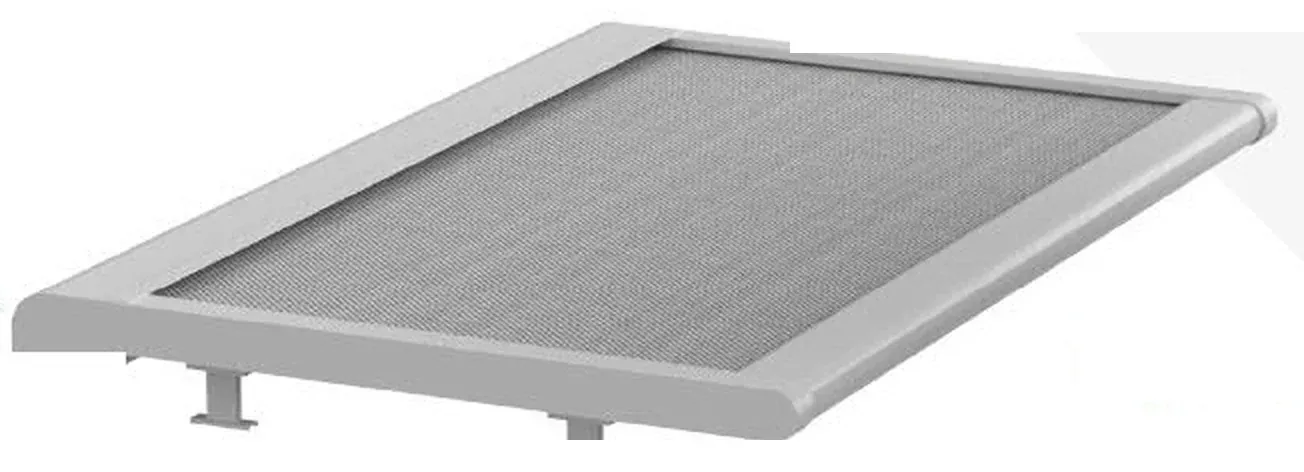
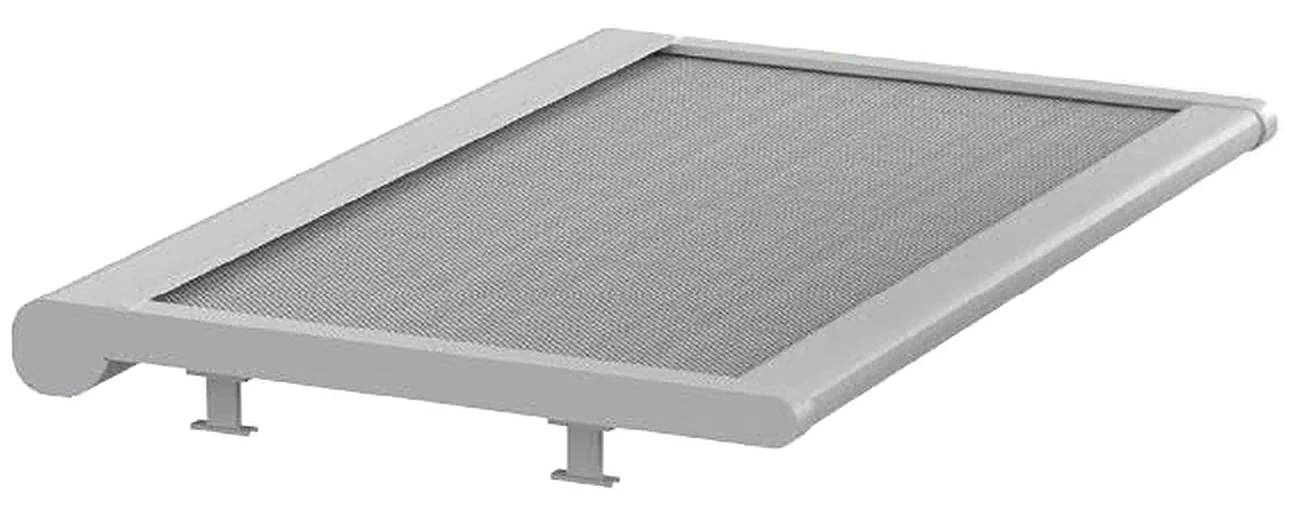
Clean glass-roof awning render; even rows in the products panel
- Rebuild the tenda-mbi-xham render from the catalogue original as a
  clean cut-out: both legs intact, no leftover background wedge
- Rows in the awnings and parasols panel share the panel height, so no
  empty band remains at the bottom on wide screens

Claude-Session: https://claude.ai/code/session_01UwXFtcP2WfhFfbmheNnJNL

diff --git a/css/styles.css b/css/styles.css
@@ -362,7 +362,7 @@ legend { padding: 0; }
 .card__more:hover { color: var(--black); }
 .card__more:hover .i { transform: rotate(90deg); }
 
-.more__list { display: grid; margin-top: 20px; border-top: 1px solid var(--line); }
+.more__list { flex: 1; display: grid; grid-auto-rows: 1fr; margin-top: 20px; border-top: 1px solid var(--line); }
 .more__list li { display: flex; align-items: center; justify-content: space-between; gap: 20px; padding: 16px 0; border-bottom: 1px solid var(--line); }
 .more__list li:last-child { border-bottom: 0; }
 .more__list h4 { font: 800 17px/1.15 var(--display); text-transform: uppercase; }
